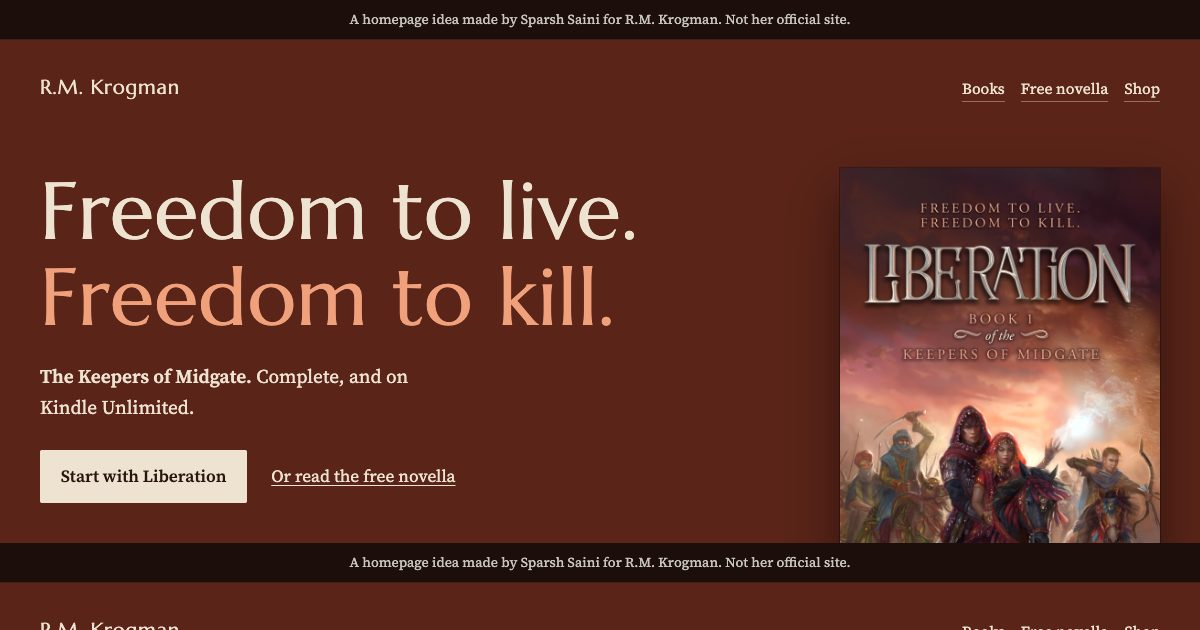
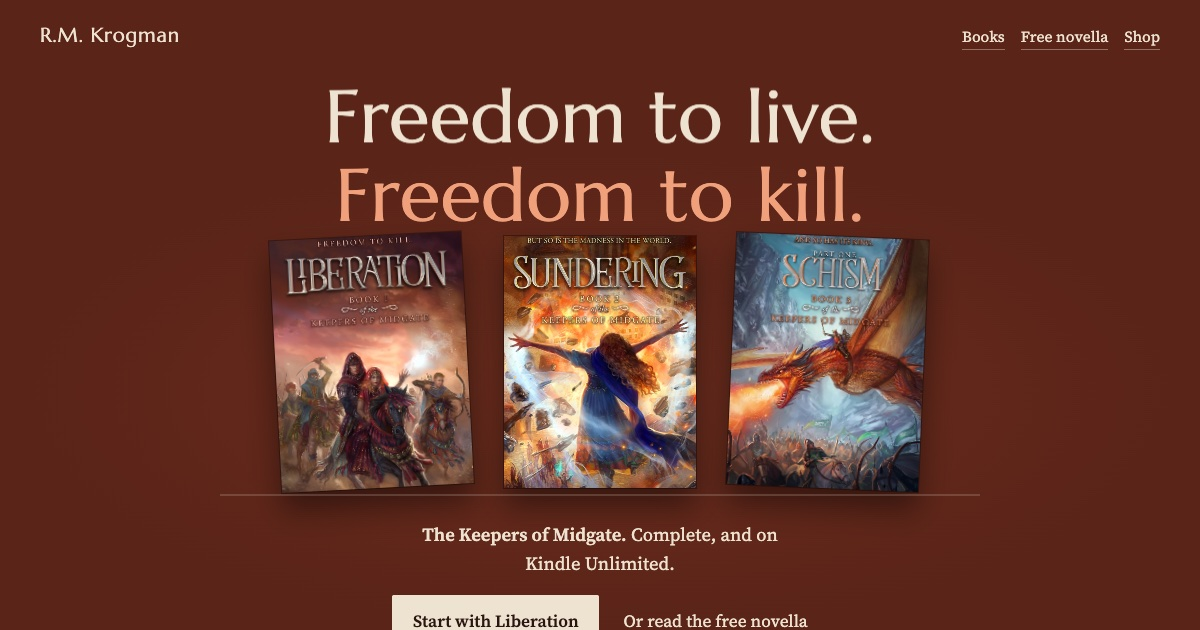
Add scroll moment

diff --git a/index.html b/index.html
@@ -11,6 +11,7 @@
 <meta property="og:image" content="https://sparshsainied-prog.github.io/rmkrogman/img/og.jpg">
 <meta property="og:type" content="website">
 <link rel="icon" href="data:,">
+<script>document.documentElement.classList.add('js')</script>
 <link rel="preconnect" href="https://fonts.googleapis.com">
 <link rel="preconnect" href="https://fonts.gstatic.com" crossorigin>
 <link href="https://fonts.googleapis.com/css2?family=Marcellus&family=Source+Serif+4:ital,opsz,wght@0,8..60,400;0,8..60,600;1,8..60,400&display=swap" rel="stylesheet">
@@ -35,22 +36,50 @@ h1, h2, h3, .display { font-family: Marcellus, "Times New Roman", serif; font-we
 
 .topstrip { background: var(--deep); color: var(--silver); font-size: .84rem; padding: .55rem 0; text-align: center; border-bottom: 1px solid #3b231b; }
 
-/* first screen */
-.hero { background: var(--rust); color: var(--bone); padding: 2rem 0 3rem; }
-.hero .wrap { display: grid; gap: 2rem; }
+/* first screen: the series stands up on the shelf, one book at a time */
+.hero { --p: 1; position: relative; background: var(--rust); color: var(--bone); }
+.js .hero { --p: 0; height: 330svh; }
+.hero {
+  --k: clamp(0, calc((var(--p) - .06) / .16), 1);
+  --b1: clamp(0, calc((var(--p) - .24) / .2), 1);
+  --b2: clamp(0, calc((var(--p) - .40) / .2), 1);
+  --b3: clamp(0, calc((var(--p) - .56) / .2), 1);
+  --e: clamp(0, calc((var(--p) - .78) / .16), 1);
+}
+.stage { min-height: 100svh; display: flex; flex-direction: column; padding: 1.25rem 0 2rem;
+  background: radial-gradient(ellipse 70% 55% at 50% 62%, #6b2c1d 0, transparent 70%), var(--rust); }
+.js .stage { position: sticky; top: 0; height: 100svh; overflow: hidden; }
+.stage > .wrap { display: flex; flex-direction: column; flex: 1; }
 .mast { display: flex; justify-content: space-between; align-items: baseline; gap: 1rem; font-size: .95rem; }
 .mast .name { font-family: Marcellus, serif; font-size: 1.25rem; letter-spacing: .04em; }
 .mast nav { display: flex; gap: 1rem; }
 .mast nav a { text-decoration: none; border-bottom: 1px solid rgba(238,227,208,.4); }
-.hero h1 { font-size: clamp(2.6rem, 11vw, 5rem); letter-spacing: .01em; }
+.hero h1 { font-size: clamp(2.3rem, 10vw, 4.6rem); letter-spacing: .01em; margin-top: clamp(1rem, 4svh, 2.5rem);
+  transform: translateY(calc((1 - var(--k)) * 22svh)); will-change: transform; }
 .hero h1 span { display: block; }
-.hero h1 .kill { color: #f0a17c; }
-.hero .line { font-size: 1.2rem; max-width: 40ch; margin: 1.25rem 0 0; }
+.hero h1 .kill { color: #f0a17c; opacity: var(--k); transform: translateY(calc((1 - var(--k)) * .5em)); will-change: transform, opacity; }
+.row { flex: 1; display: flex; flex-direction: column; justify-content: center; gap: 1.5rem; min-height: 0; }
+.shelfline { display: flex; justify-content: center; align-items: flex-end; gap: clamp(.6rem, 2.5vw, 2rem);
+  padding-bottom: 8px; margin: 0 auto; width: 100%; max-width: 760px; }
+.shelfline { position: relative; border-bottom: 0; }
+.shelfline::after { content: ""; position: absolute; left: 0; right: 0; bottom: 0; height: 2px; background: rgba(238,227,208,.18); opacity: var(--b1); }
+.vol { width: clamp(96px, 30vw, 200px); max-height: 40svh; aspect-ratio: 5 / 8; transform-origin: 50% 100%;
+  will-change: transform, opacity; box-shadow: 0 18px 30px rgba(0,0,0,.45), 0 0 0 1px rgba(0,0,0,.35); }
+.vol img { width: 100%; height: 100%; object-fit: cover; }
+.vol:nth-child(1) { --q: var(--b1); --r: -3deg; }
+.vol:nth-child(2) { --q: var(--b2); --r: 0deg; }
+.vol:nth-child(3) { --q: var(--b3); --r: 2.5deg; }
+.vol { opacity: var(--q); transform: translateY(calc((1 - var(--q)) * 45svh)) rotate(calc(var(--r) + (1 - var(--q)) * -18deg)); }
+.end { opacity: var(--e); transform: translateY(calc((1 - var(--e)) * 1.5rem)); will-change: transform, opacity; text-align: center; }
+.hero .line { font-size: 1.15rem; margin: 0 auto; max-width: 40ch; }
 .hero .line strong { font-weight: 600; }
-.cta { display: flex; flex-wrap: wrap; gap: .75rem 1.5rem; margin-top: 1.75rem; align-items: center; }
+.cta { display: flex; flex-wrap: wrap; gap: .75rem 1.5rem; margin-top: 1rem; align-items: center; justify-content: center; }
 .btn { display: inline-block; background: var(--bone); color: var(--dusk); padding: .8rem 1.3rem; text-decoration: none; font-weight: 600; border-radius: 2px; }
 .cta .plain { text-decoration-thickness: 1px; text-underline-offset: 3px; }
-.cover { width: min(68vw, 300px); justify-self: center; box-shadow: 0 24px 50px rgba(0,0,0,.45), 0 0 0 1px rgba(0,0,0,.3); }
+@media (min-width: 760px) {
+  .hero h1 { text-align: center; }
+  .vol { width: clamp(150px, 16vw, 230px); }
+}
 
 /* shelf */
 .shelf { background: var(--bone); padding: 4rem 0 3.5rem; }
@@ -106,10 +135,6 @@ footer .wrap { display: flex; flex-wrap: wrap; gap: 1rem 2rem; justify-content: 
 footer nav { display: flex; flex-wrap: wrap; gap: .5rem 1.25rem; }
 
 @media (min-width: 760px) {
-  .hero { padding: 2rem 0 5rem; }
-  .hero .wrap { grid-template-columns: 1fr 320px; column-gap: 4rem; }
-  .mast { grid-column: 1 / -1; margin-bottom: 2rem; }
-  .cover { width: 320px; align-self: center; }
   .book { grid-template-columns: 160px 1fr; gap: 2.5rem; }
   .book.prequel { grid-template-columns: 160px 1fr; }
   .book.prequel > div { grid-column: 2; }
@@ -122,21 +147,29 @@ footer nav { display: flex; flex-wrap: wrap; gap: .5rem 1.25rem; }
 <body>
 <div class="topstrip"><div class="wrap">A homepage idea made by Sparsh Saini for R.M. Krogman. Not her official site.</div></div>
 
-<header class="hero">
+<header class="hero" aria-label="The Keepers of Midgate by R.M. Krogman">
+  <div class="stage">
   <div class="wrap">
     <div class="mast">
       <span class="name">R.M. Krogman</span>
       <nav><a href="#books">Books</a><a href="#free">Free novella</a><a href="https://rmkrogman.com">Shop</a></nav>
     </div>
-    <div>
-      <h1><span>Freedom to live.</span><span class="kill">Freedom to kill.</span></h1>
-      <p class="line"><strong>The Keepers of Midgate.</strong> Complete, and on Kindle Unlimited.</p>
-      <div class="cta">
-        <a class="btn" href="#books">Start with Liberation</a>
-        <a class="plain" href="#free">Or read the free novella</a>
+    <h1><span>Freedom to live.</span><span class="kill">Freedom to kill.</span></h1>
+    <div class="row">
+      <div class="shelfline">
+        <div class="vol"><img src="img/liberation.jpg" width="700" height="1119" alt="Cover of Liberation, book one"></div>
+        <div class="vol"><img src="img/sundering.jpg" width="562" height="900" alt="Cover of Sundering, book two"></div>
+        <div class="vol"><img src="img/schism.jpg" width="563" height="900" alt="Cover of Schism, book three"></div>
+      </div>
+      <div class="end">
+        <p class="line"><strong>The Keepers of Midgate.</strong> Complete, and on Kindle Unlimited.</p>
+        <div class="cta">
+          <a class="btn" href="#books">Start with Liberation</a>
+          <a class="plain" href="#free">Or read the free novella</a>
+        </div>
       </div>
     </div>
-    <img class="cover" src="img/liberation.jpg" width="700" height="1120" alt="Cover of Liberation, The Keepers of Midgate book one: hooded riders under a dusky red sky, a woman in red, magic light.">
+  </div>
   </div>
 </header>
 
@@ -260,5 +293,17 @@ footer nav { display: flex; flex-wrap: wrap; gap: .5rem 1.25rem; }
     <nav><a href="https://rmkrogman.com">Shop</a><a href="https://www.goodreads.com/series/370402-the-keepers-of-midgate">Goodreads</a><a href="https://www.instagram.com/r.m.krogman/">Instagram</a></nav>
   </div>
 </footer>
+<script>
+(() => {
+  const hero = document.querySelector('.hero');
+  if (!hero || matchMedia('(prefers-reduced-motion: reduce)').matches) { document.documentElement.classList.remove('js'); return; }
+  let top = 0, run = 1, ticking = false;
+  const measure = () => { top = hero.getBoundingClientRect().top + scrollY; run = Math.max(1, hero.offsetHeight - innerHeight); };
+  const update = () => { ticking = false; const p = Math.min(1, Math.max(0, (scrollY - top) / run)); hero.style.setProperty('--p', p.toFixed(4)); };
+  addEventListener('scroll', () => { if (!ticking) { ticking = true; requestAnimationFrame(update); } }, { passive: true });
+  addEventListener('resize', () => { measure(); update(); });
+  measure(); update();
+})();
+</script>
 </body>
 </html>
